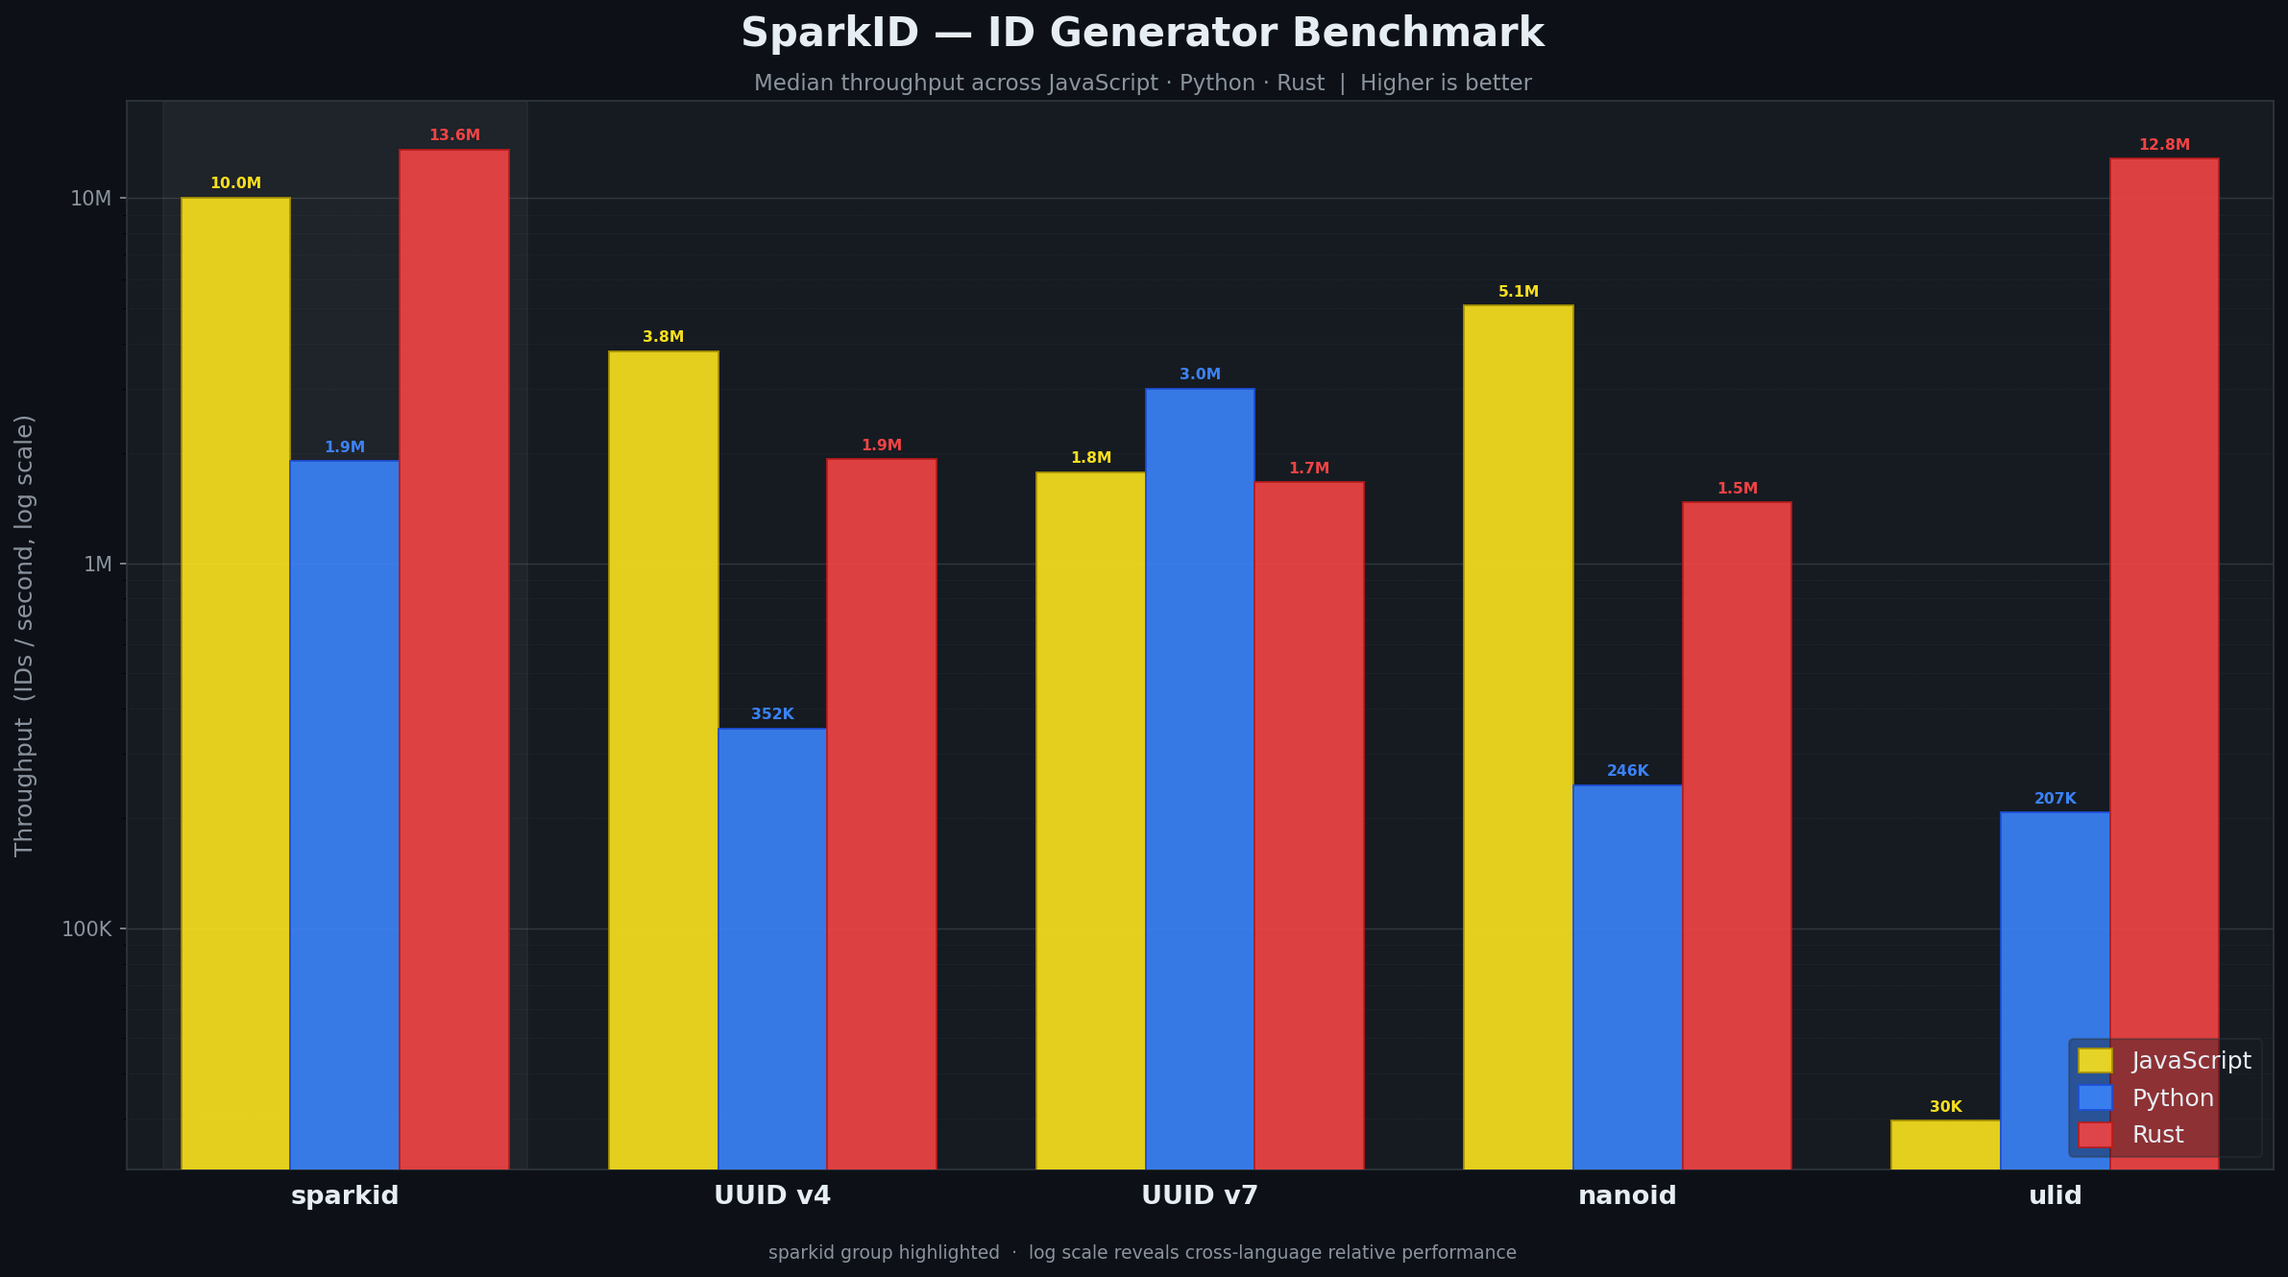
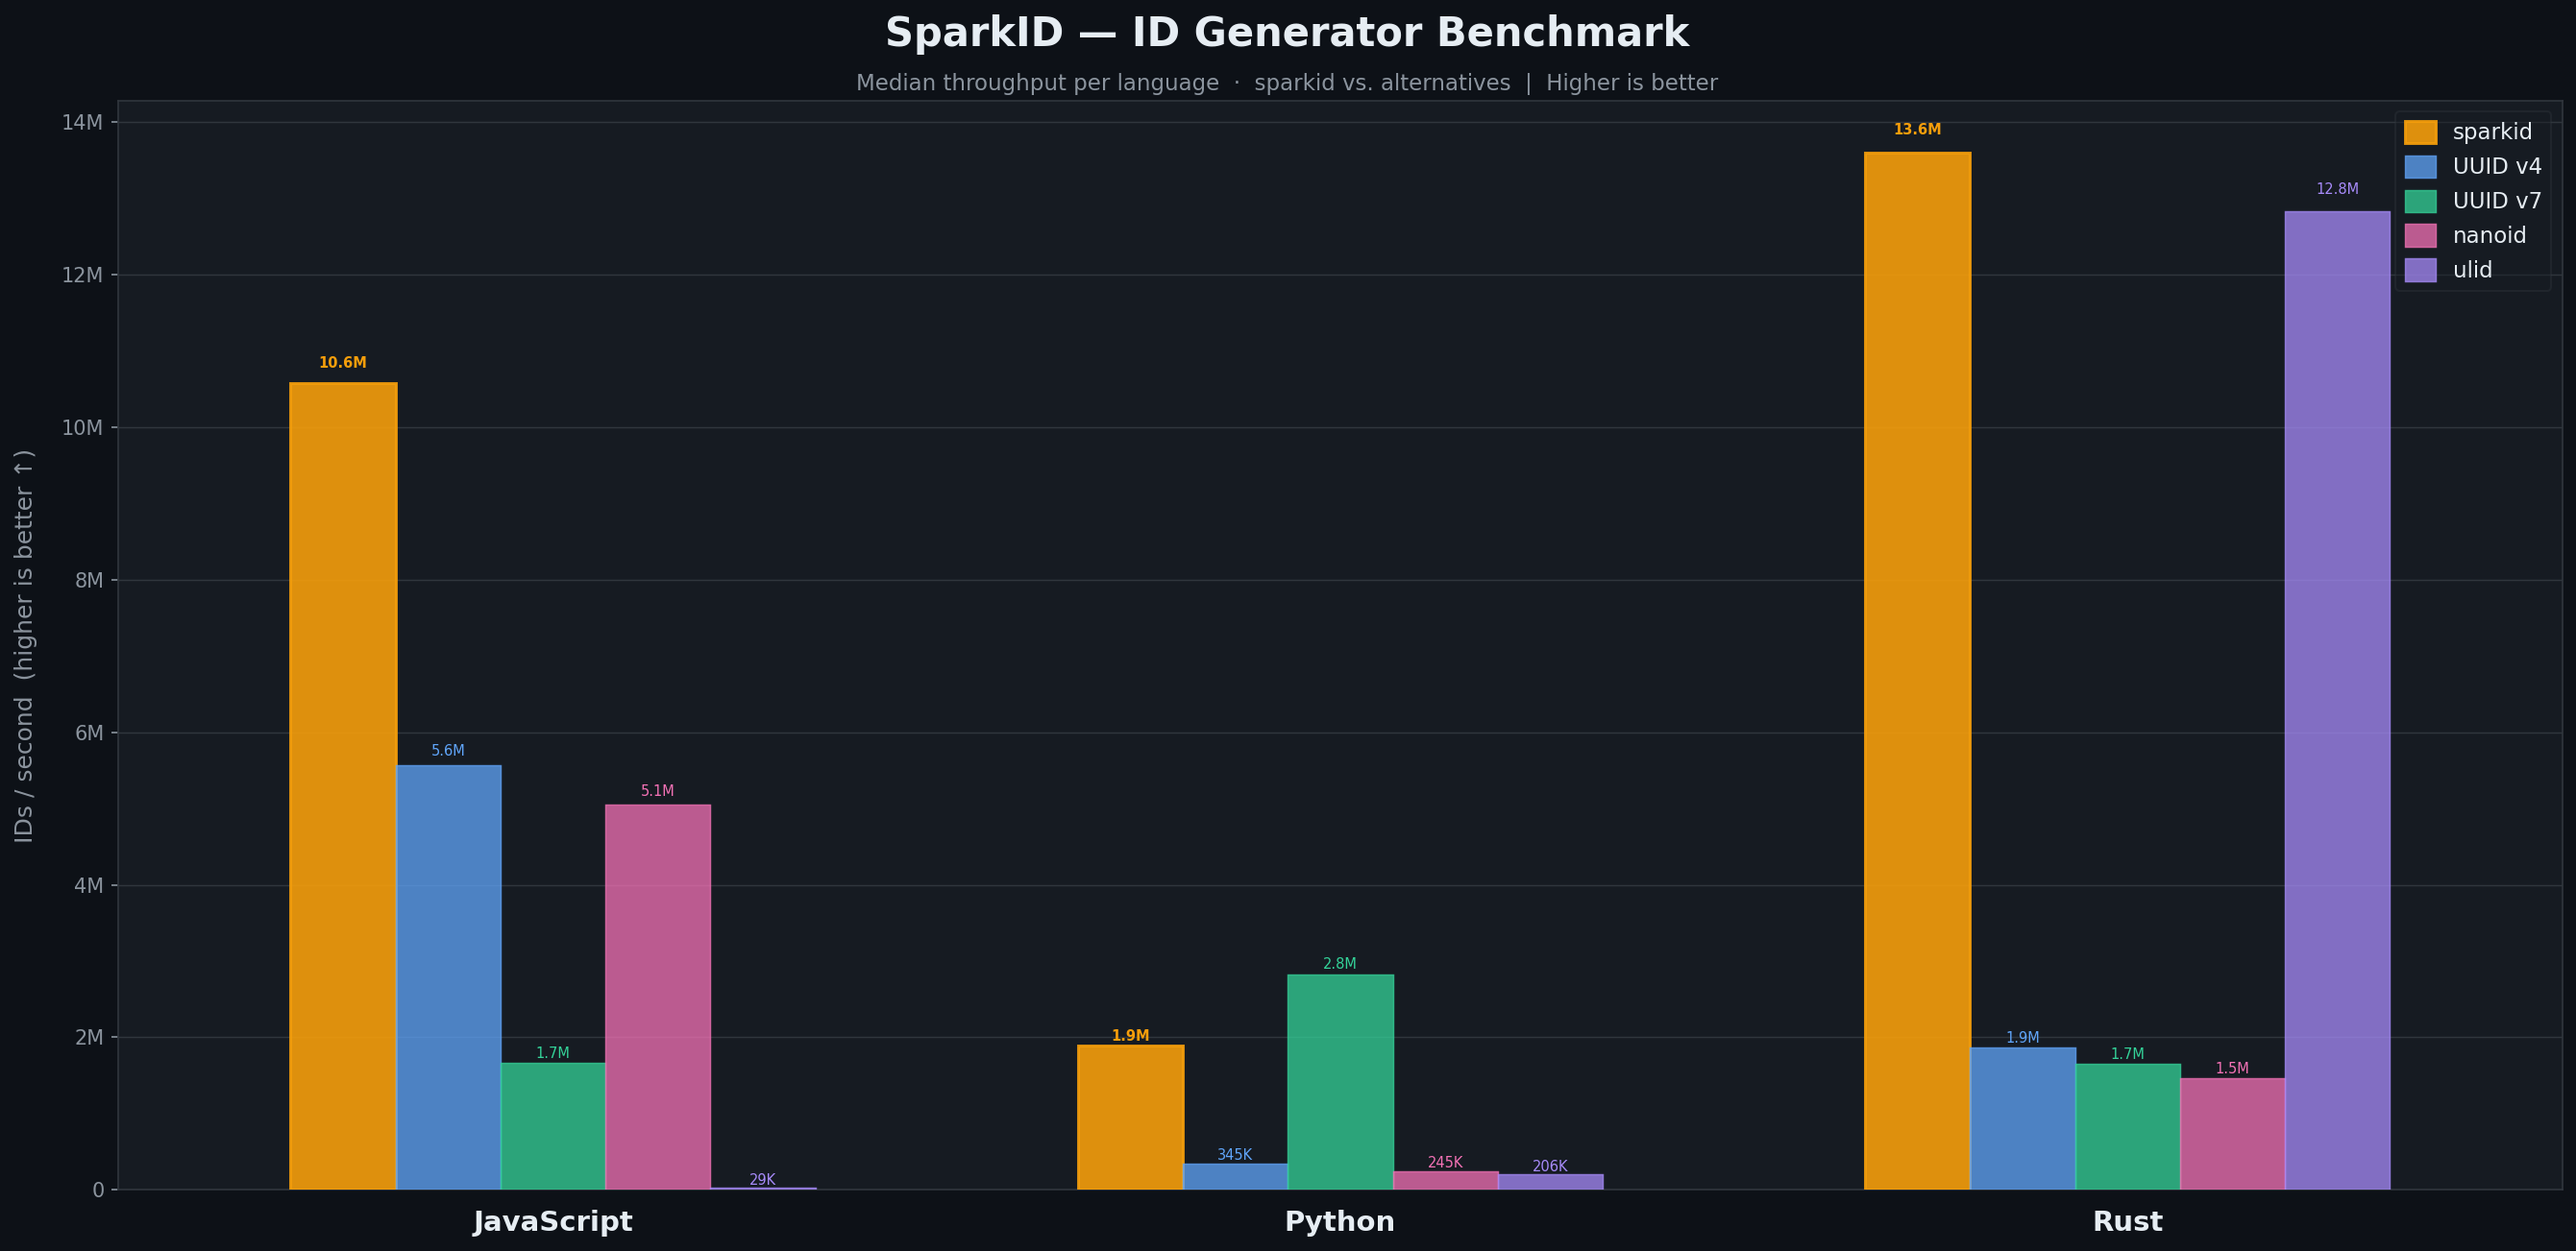
fix: group chart by language, use linear scale, document higher-is-better
Agent-Logs-Url: https://github.com/youssefm/sparkid/sessions/6aa98b0b-5bec-4409-9ee4-3d487c51f00f

diff --git a/bench_compare.py b/bench_compare.py
@@ -9,7 +9,9 @@ Usage:
 """
 
 import argparse
+import os
 import re
+import shutil
 import subprocess
 import sys
 from pathlib import Path
@@ -20,6 +22,28 @@ PYTHON_DIR = REPO_ROOT / "python"
 RUST_DIR = REPO_ROOT / "rust"
 
 DEFAULT_OUT = str(REPO_ROOT / "benchmark_comparison.png")
+
+_MAX_ERROR_OUTPUT_CHARS = 400
+
+# Extra directories to include when searching for tools (e.g. npm, uv)
+_EXTRA_PATH_DIRS = [
+    "/home/runner/.local/bin",
+    "/home/runner/.cargo/bin",
+    "/usr/local/bin",
+    os.path.expanduser("~/.local/bin"),
+]
+
+
+def _which(cmd: str) -> str:
+    """Locate *cmd* on PATH (plus common extra dirs), raising if not found."""
+    extra = os.pathsep.join(d for d in _EXTRA_PATH_DIRS if d not in os.environ.get("PATH", ""))
+    augmented_path = os.environ.get("PATH", "") + (os.pathsep + extra if extra else "")
+    found = shutil.which(cmd, path=augmented_path)
+    if not found:
+        raise FileNotFoundError(
+            f"'{cmd}' not found. Make sure it is installed and on your PATH."
+        )
+    return found
 
 # ── name normalisation ────────────────────────────────────────────────────────
 
@@ -46,8 +70,17 @@ def _norm(name: str) -> str:
 
 def run_js() -> str:
     print("▶  Running JS comparison benchmark …", flush=True)
+    try:
+        npm = _which("npm")
+    except FileNotFoundError as exc:
+        print(f"   ⚠ {exc}", file=sys.stderr)
+        return ""
+    # Ensure dev dependencies (tsx, uuid, nanoid, ulid) are installed
+    if not (JS_DIR / "node_modules" / ".bin" / "tsx").exists():
+        print("   installing JS dependencies …", flush=True)
+        subprocess.run([npm, "install"], cwd=JS_DIR, check=True, capture_output=True)
     result = subprocess.run(
-        ["npm", "run", "bench:compare"],
+        [npm, "run", "bench:compare"],
         cwd=JS_DIR,
         capture_output=True,
         text=True,
@@ -55,13 +88,27 @@ def run_js() -> str:
     output = result.stdout + result.stderr
     if result.returncode != 0:
         print(f"   ⚠ JS benchmark exited with code {result.returncode}", file=sys.stderr)
+        print(result.stderr[:_MAX_ERROR_OUTPUT_CHARS], file=sys.stderr)
     return output
 
 
 def run_python() -> str:
     print("▶  Running Python comparison benchmark …", flush=True)
+    try:
+        uv = _which("uv")
+    except FileNotFoundError as exc:
+        print(f"   ⚠ {exc}", file=sys.stderr)
+        return ""
+    # Ensure all benchmark dependencies are installed in the uv environment
+    sync = subprocess.run(
+        [uv, "sync", "--all-groups"],
+        cwd=PYTHON_DIR,
+        capture_output=True,
+    )
+    if sync.returncode != 0:
+        print("   ⚠ uv sync failed; benchmark may be missing optional dependencies", file=sys.stderr)
     result = subprocess.run(
-        ["uv", "run", "python", "bench/benchmark.py", "--compare"],
+        [uv, "run", "python", "bench/benchmark.py", "--compare"],
         cwd=PYTHON_DIR,
         capture_output=True,
         text=True,
@@ -69,13 +116,19 @@ def run_python() -> str:
     output = result.stdout + result.stderr
     if result.returncode != 0:
         print(f"   ⚠ Python benchmark exited with code {result.returncode}", file=sys.stderr)
+        print(result.stderr[:_MAX_ERROR_OUTPUT_CHARS], file=sys.stderr)
     return output
 
 
 def run_rust() -> str:
     print("▶  Running Rust comparison benchmark …", flush=True)
+    try:
+        cargo = _which("cargo")
+    except FileNotFoundError as exc:
+        print(f"   ⚠ {exc}", file=sys.stderr)
+        return ""
     result = subprocess.run(
-        ["cargo", "bench", "--bench", "benchmark"],
+        [cargo, "bench", "--bench", "benchmark"],
         cwd=RUST_DIR,
         capture_output=True,
         text=True,
@@ -197,19 +250,28 @@ def make_chart(
         sys.exit(f"Missing dependency: {exc}. Run: pip install matplotlib numpy")
 
     all_names = set(js) | set(py) | set(rust)
-    names = _order_names(all_names)
+    names = _order_names(all_names)  # generator names, sparkid first
     n = len(names)
 
     langs = ["JavaScript", "Python", "Rust"]
     datasets = [js, py, rust]
+    n_langs = len(langs)
 
-    # Colour palette — JS yellow, Python blue, Rust orange-red
-    BAR_COLORS = ["#F7DF1E", "#3B82F6", "#EF4444"]
-    EDGE_COLORS = ["#a89200", "#1d4ed8", "#b91c1c"]
+    # One colour per generator - sparkid gets a distinct gold, others muted palette
+    GEN_PALETTE = [
+        "#F59E0B",  # sparkid - amber gold
+        "#60A5FA",  # UUID v4 - blue
+        "#34D399",  # UUID v7 - emerald
+        "#F472B6",  # nanoid  - pink
+        "#A78BFA",  # ulid    - violet
+        "#FB923C",  # cuid2   - orange
+        "#94A3B8",  # extra   - slate
+    ]
+    gen_colors = {name: GEN_PALETTE[i % len(GEN_PALETTE)] for i, name in enumerate(names)}
 
-    BAR_W = 0.24
-    GROUP_GAP = 0.12  # extra gap between groups
-    xs = np.arange(n) * (len(langs) * BAR_W + GROUP_GAP + 0.1)
+    BAR_W = 0.14
+    LANG_SPACING = n * BAR_W + 0.35  # distance between language group centres
+    lang_xs = np.arange(n_langs) * LANG_SPACING
 
     # ── figure setup ─────────────────────────────────────────────────────────
     FIG_BG = "#0d1117"
@@ -219,27 +281,29 @@ def make_chart(
     TEXT_COLOR = "#e6edf3"
     MUTED = "#8b949e"
 
-    fig, ax = plt.subplots(figsize=(max(16, n * 3.2), 9))
+    fig_w = max(18, n_langs * (n * BAR_W + 1.4))
+    fig, ax = plt.subplots(figsize=(fig_w, 9))
     fig.patch.set_facecolor(FIG_BG)
     ax.set_facecolor(AX_BG)
 
-    # ── draw bars ─────────────────────────────────────────────────────────────
-    for li, (lang, data, bar_c, edge_c) in enumerate(
-        zip(langs, datasets, BAR_COLORS, EDGE_COLORS)
-    ):
-        offset = (li - (len(langs) - 1) / 2) * BAR_W
-        vals = np.array([data.get(name, 0.0) for name in names], dtype=float)
+    # ── draw bars (grouped by language, coloured by generator) ───────────────
+    for gi, name in enumerate(names):
+        offset = (gi - (n - 1) / 2) * BAR_W
+        vals = np.array([datasets[li].get(name, 0.0) for li in range(n_langs)], dtype=float)
+        bar_c = gen_colors[name]
+        # sparkid bars get a brighter, slightly wider stroke
+        lw = 1.4 if name == "sparkid" else 0.7
 
         bars = ax.bar(
-            xs + offset,
+            lang_xs + offset,
             vals,
             BAR_W,
-            label=lang,
+            label=name,
             color=bar_c,
-            edgecolor=edge_c,
-            linewidth=0.9,
+            edgecolor=bar_c,
+            linewidth=lw,
             zorder=3,
-            alpha=0.92,
+            alpha=0.90 if name == "sparkid" else 0.75,
         )
 
         # Value labels above each bar
@@ -256,25 +320,17 @@ def make_chart(
                 label = str(int(val))
             ax.text(
                 bar.get_x() + bar.get_width() / 2,
-                bar.get_height() * 1.04,
+                bar.get_height() * 1.015,
                 label,
                 ha="center",
                 va="bottom",
-                fontsize=7.5,
-                fontweight="bold",
+                fontsize=7,
+                fontweight="bold" if name == "sparkid" else "normal",
                 color=bar_c,
                 zorder=5,
             )
 
-    # ── highlight sparkid group ───────────────────────────────────────────────
-    if "sparkid" in names:
-        si = names.index("sparkid")
-        span_x = xs[si] - BAR_W * len(langs) / 2 - 0.04
-        span_w = BAR_W * len(langs) + 0.08
-        ax.axvspan(span_x, span_x + span_w, color="#ffffff", alpha=0.04, zorder=1)
-
     # ── axes & grid ───────────────────────────────────────────────────────────
-    ax.set_yscale("log")
     ax.yaxis.set_major_formatter(
         mticker.FuncFormatter(
             lambda v, _: (
@@ -288,19 +344,19 @@ def make_chart(
             )
         )
     )
-    ax.yaxis.set_minor_formatter(mticker.NullFormatter())
 
-    ax.set_xticks(xs)
-    ax.set_xticklabels(names, fontsize=13, fontweight="bold", color=TEXT_COLOR)
-    ax.tick_params(axis="x", length=0, pad=8)
+    ax.set_xticks(lang_xs)
+    ax.set_xticklabels(langs, fontsize=14, fontweight="bold", color=TEXT_COLOR)
+    ax.tick_params(axis="x", length=0, pad=10)
     ax.tick_params(axis="y", colors=MUTED, labelsize=10)
+    ax.set_ylim(bottom=0)
 
-    ax.set_ylabel("Throughput  (IDs / second, log scale)", fontsize=12, color=MUTED, labelpad=12)
+    ax.set_ylabel("IDs / second  (higher is better ↑)", fontsize=12, color=MUTED, labelpad=12)
 
-    ax.grid(axis="y", which="major", color=GRID_COLOR, linewidth=0.7, zorder=0)
-    ax.grid(axis="y", which="minor", color=GRID_COLOR, linewidth=0.3, linestyle=":", zorder=0)
+    ax.grid(axis="y", color=GRID_COLOR, linewidth=0.7, zorder=0)
     ax.set_axisbelow(True)
-    ax.set_xlim(xs[0] - BAR_W * 2, xs[-1] + BAR_W * 2)
+    half_group = (n - 1) / 2 * BAR_W
+    ax.set_xlim(lang_xs[0] - half_group - 0.3, lang_xs[-1] + half_group + 0.3)
 
     for spine in ax.spines.values():
         spine.set_edgecolor(SPINE_COLOR)
@@ -314,33 +370,25 @@ def make_chart(
     )
     fig.text(
         0.5, 0.925,
-        "Median throughput across JavaScript · Python · Rust  |  Higher is better",
+        "Median throughput per language  ·  sparkid vs. alternatives  |  Higher is better",
         ha="center", va="top",
         fontsize=11, color=MUTED,
     )
 
     # ── legend ────────────────────────────────────────────────────────────────
-    legend = ax.legend(
-        fontsize=12,
-        loc="lower right",
+    ax.legend(
+        fontsize=11,
+        loc="upper right",
         framealpha=0.4,
         edgecolor=SPINE_COLOR,
         facecolor=AX_BG,
         labelcolor=TEXT_COLOR,
         handlelength=1.4,
         handleheight=1.2,
+        ncol=1,
     )
 
-    # ── footnote ──────────────────────────────────────────────────────────────
-    fig.text(
-        0.5, 0.01,
-        "sparkid group highlighted  ·  log scale reveals cross-language relative performance",
-        ha="center",
-        fontsize=9,
-        color=MUTED,
-    )
-
-    plt.tight_layout(rect=[0, 0.03, 1, 0.92])
+    plt.tight_layout(rect=[0, 0.01, 1, 0.92])
     plt.savefig(out, dpi=150, bbox_inches="tight", facecolor=fig.get_facecolor())
     plt.close(fig)
     print(f"\n✅  Chart saved → {out}")
